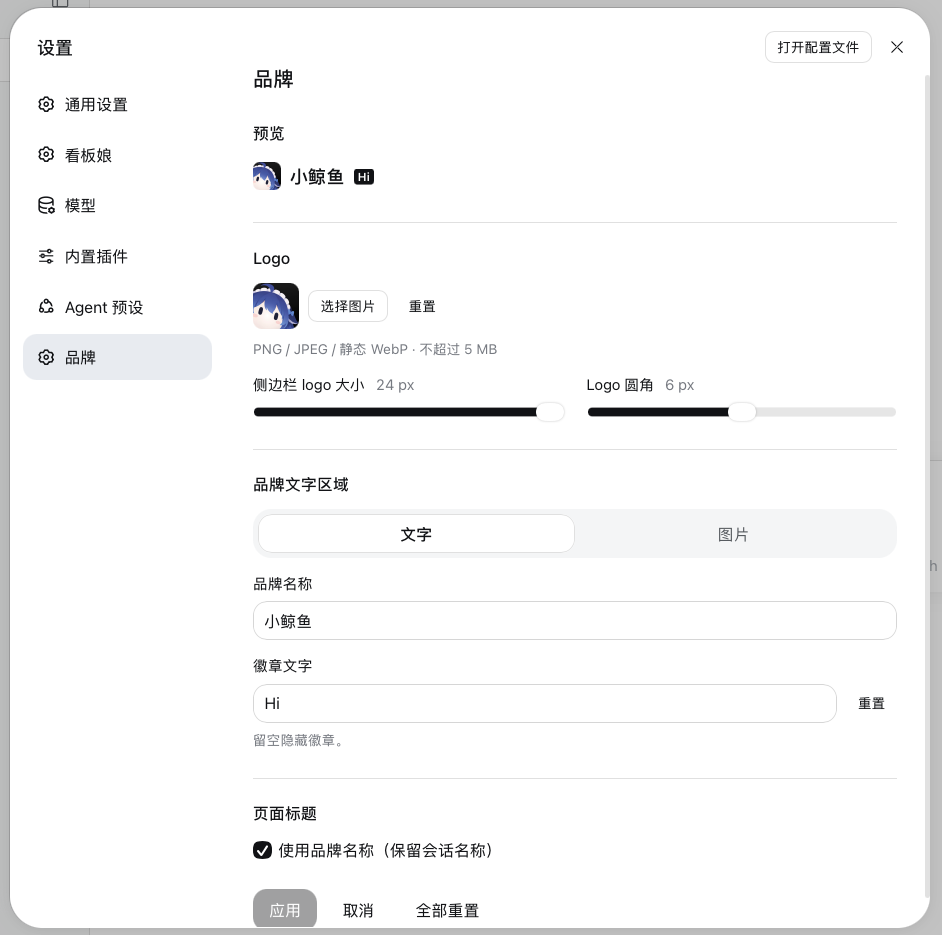
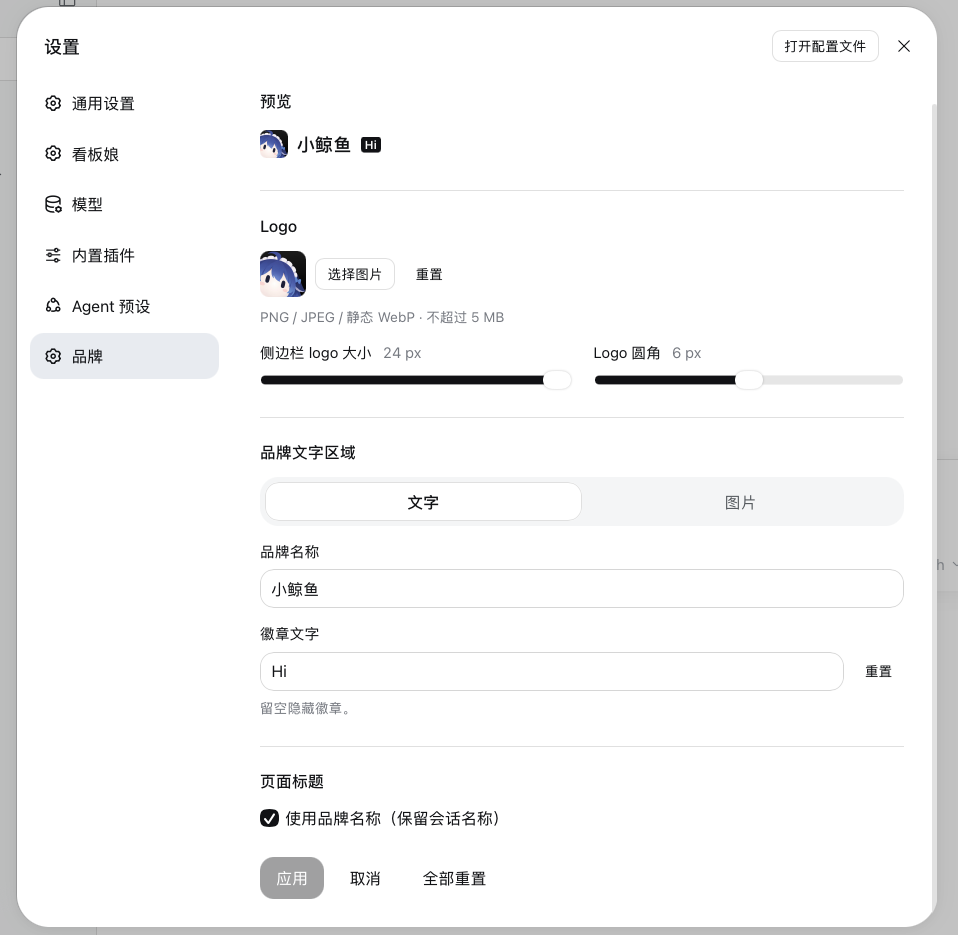
chore: bump version to 0.0.2 and refresh README

diff --git a/docs/release.md b/docs/release.md
@@ -39,7 +39,7 @@ RELEASE_CHANNEL=beta RELEASE_NUMBER=0 node scripts/release.mjs prepare
 npm publish .local/release/dsh-brand-studio-0.0.1-beta.0.tgz --tag beta --access public --ignore-scripts
 ```
 
-The example uses the current `0.0.1` base version. If it has changed, use the tarball path printed by `prepare`. This reserves the package under your npm account without declaring the first build stable. Then configure trusted publishing and enable releases as described above.
+The example uses a `0.0.1` base version. If your version differs, use the tarball path printed by `prepare`. This reserves the package under your npm account without declaring the first build stable. Then configure trusted publishing and enable releases as described above.
 
 After the first successful Actions publication, npm recommends **Publishing access → Require two-factor authentication and disallow tokens**. Trusted publishing continues to work with that setting. [npm publishing-access guidance](https://docs.npmjs.com/trusted-publishers/).
 

diff --git a/README.en.md b/README.en.md
@@ -89,6 +89,4 @@ For an existing installation, you can rename its desktop shortcut and select an 
 
 In Desktop or Web/PWA, open **Plugins**, find **DSH Brand Studio**, choose **Uninstall**, and confirm. To temporarily stop using it, disable it instead.
 
-Development and publishing: [Development](docs/development.md) · [Releases](docs/release.md).
-
 This is an independent community project, not affiliated with DeepSeek.

diff --git a/README.md b/README.md
@@ -89,6 +89,4 @@ dsh plugin --profile web add 'github:qiweiii/dsh-brand-studio'
 
 在桌面端或网页/PWA 打开**插件**页面，找到 **DSH Brand Studio**，点击**卸载**并确认。如果只是暂时不用，可以选择禁用。
 
-开发和发布：[开发指南](docs/development.md) · [发布指南](docs/release.md)。
-
 本项目为独立社区项目，与 DeepSeek 官方无关联。
